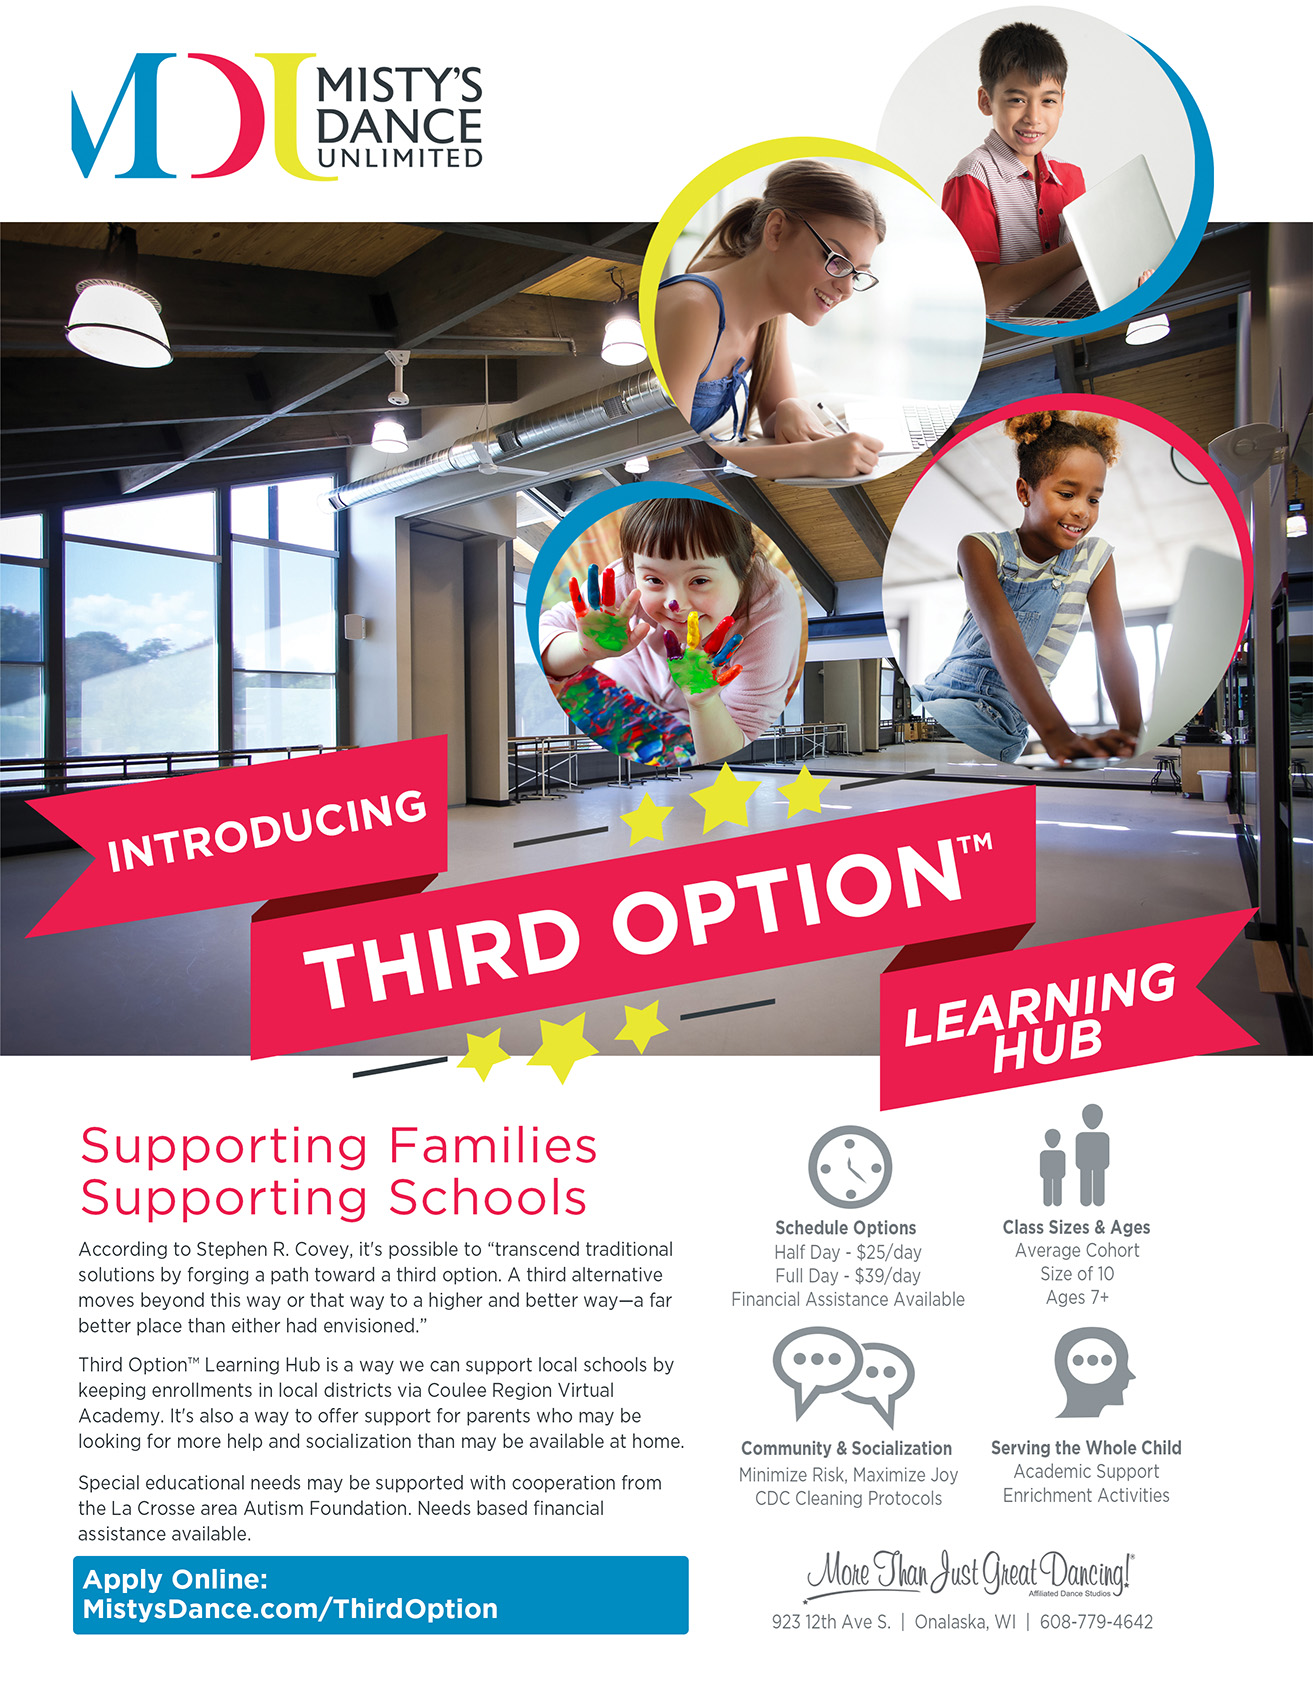
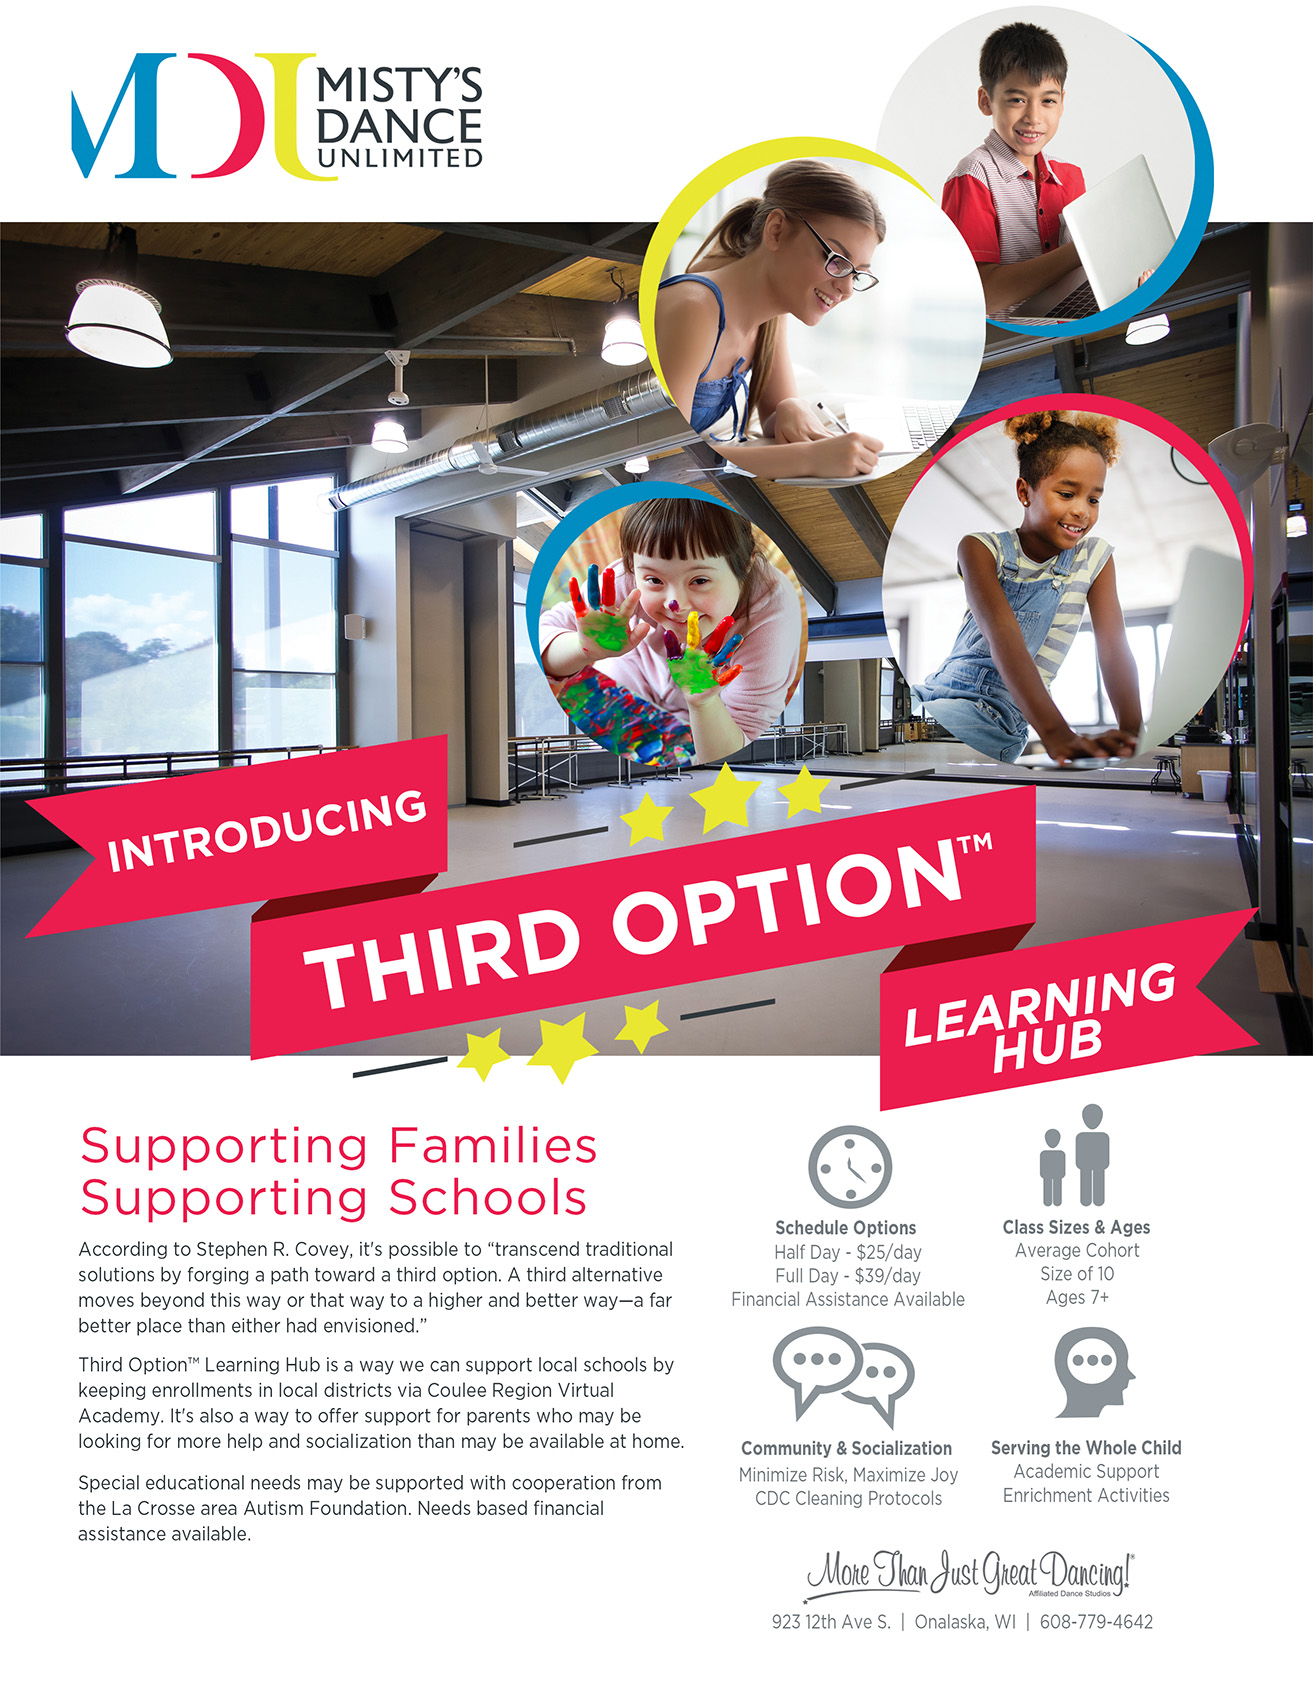
remove apply online on img and word to

Changed region(s): [[0.0312, 0.9242, 0.5308, 0.9858]]

diff --git a/resources/views/thirdoption.blade.php b/resources/views/thirdoption.blade.php
@@ -12,7 +12,7 @@
 
     <div class="container my-5">
         <p class="text-center" style="font-size: 1.33em;">
-            Enrollment will require a $45 non-refundable enrollment fee. Weekly fees will be paid weekly on Mondays beginning the first week of school. Weekly payments to allow families flexibility to re-enter school should that become an option or go back to learning from home if that becomes necessary.  Sibling discount available. Withdraw at any time with a one week notice.
+            Enrollment will require a $45 non-refundable enrollment fee. Weekly fees will be paid weekly on Mondays beginning the first week of school. Weekly payments allow families flexibility to re-enter school should that become an option or go back to learning from home if that becomes necessary.  Sibling discount available. Withdraw at any time with a one week notice.
             <br><br>
             Registration for families seeking full day, 5 days a week placement will begin Saturday, Aug. 1 at 8am.  Registration for part-time placements begins Monday, August 3 at noon pending availability.
         </p>
